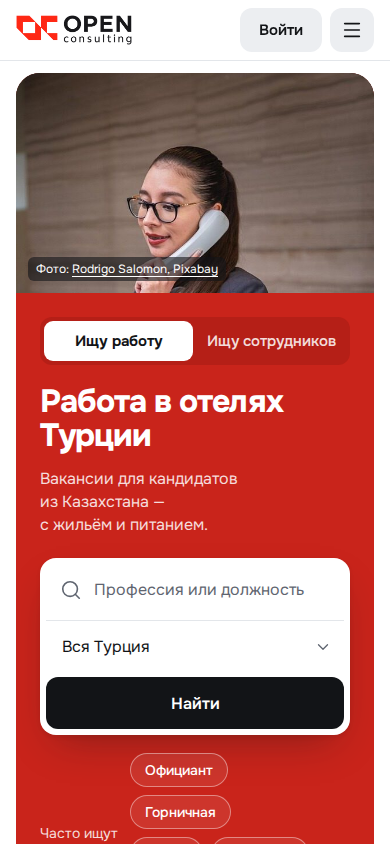
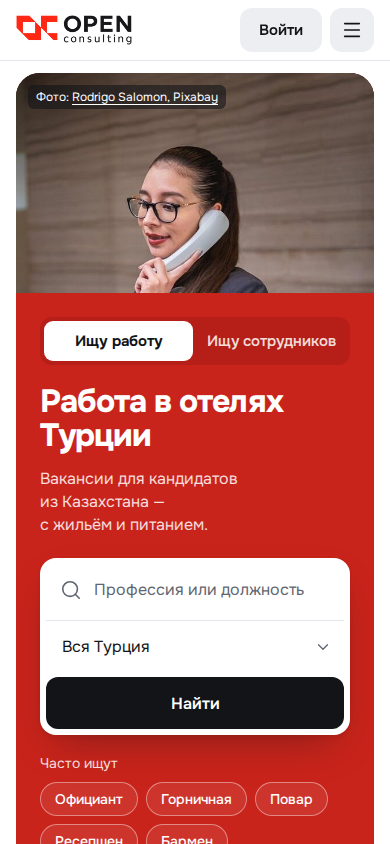
Homepage 3.0: second finish-review round (hero spacing, phone chips, crops, hotel mode)
Claude-Session: https://claude.ai/code/session_01AA1Z1WtEioX9EZSZ5Yz5ua

diff --git a/design/product-map/home/bundle/homepage-BToajWnn.css b/design/product-map/home/bundle/homepage-BToajWnn.css
@@ -1,0 +1,1 @@
+@font-face{font-family:Onest Variable;font-style:normal;font-display:swap;font-weight:100 900;src:url(/home/bundle/onest-cyrillic-ext-wght-normal-DOFToQv1.woff2)format("woff2-variations");unicode-range:U+460-52F,U+1C80-1C8A,U+20B4,U+2DE0-2DFF,U+A640-A69F,U+FE2E-FE2F}@font-face{font-family:Onest Variable;font-style:normal;font-display:swap;font-weight:100 900;src:url(/home/bundle/onest-cyrillic-wght-normal-DayYxulF.woff2)format("woff2-variations");unicode-range:U+301,U+400-45F,U+490-491,U+4B0-4B1,U+2116}@font-face{font-family:Onest Variable;font-style:normal;font-display:swap;font-weight:100 900;src:url(/home/bundle/onest-math-wght-normal-Bl4ZGkZl.woff2)format("woff2-variations");unicode-range:U+302-303,U+305,U+307-308,U+310,U+312,U+315,U+31A,U+326-327,U+32C,U+32F-330,U+332-333,U+338,U+33A,U+346,U+34D,U+391-3A1,U+3A3-3A9,U+3B1-3C9,U+3D1,U+3D5-3D6,U+3F0-3F1,U+3F4-3F5,U+2016-2017,U+2034-2038,U+203C,U+2040,U+2043,U+2047,U+2050,U+2057,U+205F,U+2070-2071,U+2074-208E,U+2090-209C,U+20D0-20DC,U+20E1,U+20E5-20EF,U+2100-2112,U+2114-2115,U+2117-2121,U+2123-214F,U+2190,U+2192,U+2194-21AE,U+21B0-21E5,U+21F1-21F2,U+21F4-2211,U+2213-2214,U+2216-22FF,U+2308-230B,U+2310,U+2319,U+231C-2321,U+2336-237A,U+237C,U+2395,U+239B-23B7,U+23D0,U+23DC-23E1,U+2474-2475,U+25AF,U+25B3,U+25B7,U+25BD,U+25C1,U+25CA,U+25CC,U+25FB,U+266D-266F,U+27C0-27FF,U+2900-2AFF,U+2B0E-2B11,U+2B30-2B4C,U+2BFE,U+3030,U+FF5B,U+FF5D,U+1D400-1D7FF,U+1EE??}@font-face{font-family:Onest Variable;font-style:normal;font-display:swap;font-weight:100 900;src:url(/home/bundle/onest-symbols-wght-normal-DxQzqQfC.woff2)format("woff2-variations");unicode-range:U+1-C,U+E-1F,U+7F-9F,U+20DD-20E0,U+20E2-20E4,U+2150-218F,U+2190,U+2192,U+2194-2199,U+21AF,U+21E6-21F0,U+21F3,U+2218-2219,U+2299,U+22C4-22C6,U+2300-243F,U+2440-244A,U+2460-24FF,U+25A0-27BF,U+28??,U+2921-2922,U+2981,U+29BF,U+29EB,U+2B??,U+4DC0-4DFF,U+FFF9-FFFB,U+10140-1018E,U+10190-1019C,U+101A0,U+101D0-101FD,U+102E0-102FB,U+10E60-10E7E,U+1D2C0-1D2D3,U+1D2E0-1D37F,U+1F0??,U+1F100-1F1AD,U+1F1E6-1F1FF,U+1F30D-1F30F,U+1F315,U+1F31C,U+1F31E,U+1F320-1F32C,U+1F336,U+1F378,U+1F37D,U+1F382,U+1F393-1F39F,U+1F3A7-1F3A8,U+1F3AC-1F3AF,U+1F3C2,U+1F3C4-1F3C6,U+1F3CA-1F3CE,U+1F3D4-1F3E0,U+1F3ED,U+1F3F1-1F3F3,U+1F3F5-1F3F7,U+1F408,U+1F415,U+1F41F,U+1F426,U+1F43F,U+1F441-1F442,U+1F444,U+1F446-1F449,U+1F44C-1F44E,U+1F453,U+1F46A,U+1F47D,U+1F4A3,U+1F4B0,U+1F4B3,U+1F4B9,U+1F4BB,U+1F4BF,U+1F4C8-1F4CB,U+1F4D6,U+1F4DA,U+1F4DF,U+1F4E3-1F4E6,U+1F4EA-1F4ED,U+1F4F7,U+1F4F9-1F4FB,U+1F4FD-1F4FE,U+1F503,U+1F507-1F50B,U+1F50D,U+1F512-1F513,U+1F53E-1F54A,U+1F54F-1F5FA,U+1F610,U+1F650-1F67F,U+1F687,U+1F68D,U+1F691,U+1F694,U+1F698,U+1F6AD,U+1F6B2,U+1F6B9-1F6BA,U+1F6BC,U+1F6C6-1F6CF,U+1F6D3-1F6D7,U+1F6E0-1F6EA,U+1F6F0-1F6F3,U+1F6F7-1F6FC,U+1F7??,U+1F800-1F80B,U+1F810-1F847,U+1F850-1F859,U+1F860-1F887,U+1F890-1F8AD,U+1F8B0-1F8BB,U+1F8C0-1F8C1,U+1F900-1F90B,U+1F93B,U+1F946,U+1F984,U+1F996,U+1F9E9,U+1FA00-1FA6F,U+1FA70-1FA7C,U+1FA80-1FA89,U+1FA8F-1FAC6,U+1FACE-1FADC,U+1FADF-1FAE9,U+1FAF0-1FAF8,U+1FB??}@font-face{font-family:Onest Variable;font-style:normal;font-display:swap;font-weight:100 900;src:url(/home/bundle/onest-vietnamese-wght-normal-BBxOatbv.woff2)format("woff2-variations");unicode-range:U+102-103,U+110-111,U+128-129,U+168-169,U+1A0-1A1,U+1AF-1B0,U+300-301,U+303-304,U+308-309,U+323,U+329,U+1EA0-1EF9,U+20AB}@font-face{font-family:Onest Variable;font-style:normal;font-display:swap;font-weight:100 900;src:url(/home/bundle/onest-latin-ext-wght-normal-QAhDxQuo.woff2)format("woff2-variations");unicode-range:U+100-2BA,U+2BD-2C5,U+2C7-2CC,U+2CE-2D7,U+2DD-2FF,U+304,U+308,U+329,U+1D00-1DBF,U+1E00-1E9F,U+1EF2-1EFF,U+2020,U+20A0-20AB,U+20AD-20C0,U+2113,U+2C60-2C7F,U+A720-A7FF}@font-face{font-family:Onest Variable;font-style:normal;font-display:swap;font-weight:100 900;src:url(/home/bundle/onest-latin-wght-normal-Dun_Rd-l.woff2)format("woff2-variations");unicode-range:U+??,U+131,U+152-153,U+2BB-2BC,U+2C6,U+2DA,U+2DC,U+304,U+308,U+329,U+2000-206F,U+20AC,U+2122,U+2191,U+2193,U+2212,U+2215,U+FEFF,U+FFFD}:root{--bg:#fff;--surface:#f4f5f7;--surface-2:#eceef1;--surface-3:#e2e5e9;--line:#e3e6ea;--line-strong:#c9ced5;--ink:#121417;--ink-2:#464c55;--ink-3:#5f6570;--red:#d42a20;--red-hover:#b3221a;--red-press:#9a1c15;--red-panel:#c9241b;--red-panel-2:#b51f17;--red-ink:#b3221a;--red-soft:#fdecea;--logo-red:#ec2a20;--green:#127a45;--green-soft:#e6f4ec;--amber-ink:#6b4a00;--amber-soft:#fff1cc;--on-red:#fff;--on-red-2:#ffffffdb;--font:"Onest Variable", "Segoe UI", Roboto, Arial, sans-serif;--fs-12:.75rem;--fs-13:.8125rem;--fs-14:.875rem;--fs-15:.9375rem;--fs-16:1rem;--fs-18:1.125rem;--fs-20:1.25rem;--fs-24:1.5rem;--fs-28:1.75rem;--fs-36:2.25rem;--fs-48:3rem;--r-8:8px;--r-12:12px;--r-16:16px;--r-24:24px;--shadow-card:0 1px 2px #1214170f, 0 8px 24px -12px #1214172e;--shadow-float:0 2px 4px #12141714, 0 18px 40px -16px #12141761;--shadow-pop:0 4px 12px #1214171a, 0 24px 56px -20px #12141759;--max:1280px;--gutter:clamp(16px, 3vw, 32px);--header-h:72px;--ease-out:cubic-bezier(.16, 1, .3, 1);--t-fast:.15s;--t-mid:.22s}@media (prefers-reduced-motion:reduce){:root{--t-fast:0s;--t-mid:0s}}*,:before,:after{box-sizing:border-box}html{-webkit-text-size-adjust:100%;-moz-text-size-adjust:100%;text-size-adjust:100%;scroll-padding-top:calc(var(--header-h) + 16px);scrollbar-color:var(--line-strong) transparent}@media (prefers-reduced-motion:no-preference){html{scroll-behavior:smooth}}body{background:var(--bg);min-width:320px;color:var(--ink);font-family:var(--font);font-size:var(--fs-16);font-synthesis:none;font-feature-settings:"kern";-webkit-font-smoothing:antialiased;text-rendering:optimizelegibility;caret-color:var(--red);margin:0;line-height:1.5}::selection{background:var(--red-soft);color:var(--ink)}img{max-width:100%;display:block}button,input,select,textarea{font:inherit;color:inherit}button{cursor:pointer}h1,h2,h3,h4,p,ul,ol,dl,dd,figure{margin:0}ul,ol{padding:0;list-style:none}a{color:inherit;text-underline-offset:3px;text-decoration-thickness:1px}:focus-visible{outline:2px solid var(--ink);outline-offset:2px;border-radius:4px}.num{font-variant-numeric:tabular-nums lining-nums}.wrap{width:100%;max-width:calc(var(--max) + var(--gutter) * 2);padding-inline:var(--gutter);margin-inline:auto}.visually-hidden{clip:rect(0 0 0 0);white-space:nowrap;border:0;width:1px;height:1px;margin:-1px;padding:0;overflow:hidden;position:absolute!important}.skip{z-index:100;border-radius:var(--r-8);background:var(--ink);color:#fff;padding:10px 14px;text-decoration:none;position:absolute;top:-80px;left:16px}.skip:focus{top:12px}.section{padding-block:56px}.section--tint{background:var(--surface)}.section__head{flex-wrap:wrap;justify-content:space-between;align-items:baseline;gap:8px 24px;margin-bottom:24px;display:flex}.h2{font-size:var(--fs-28);letter-spacing:-.02em;text-wrap:balance;font-weight:700;line-height:1.2}.h3{font-size:var(--fs-18);letter-spacing:-.01em;font-weight:650;line-height:1.3}.lead{color:var(--ink-2);font-size:var(--fs-16);max-width:62ch}.more-link{font-size:var(--fs-15);color:var(--red-ink);align-items:center;gap:4px;font-weight:600;text-decoration:none;display:inline-flex}.more-link:hover{text-decoration:underline}.btn{border-radius:var(--r-12);min-height:44px;font-size:var(--fs-15);white-space:nowrap;transition:background-color var(--t-fast) var(--ease-out), border-color var(--t-fast) var(--ease-out), color var(--t-fast) var(--ease-out), box-shadow var(--t-fast) var(--ease-out);border:1px solid #0000;justify-content:center;align-items:center;gap:8px;padding:0 18px;font-weight:600;line-height:1.2;text-decoration:none;display:inline-flex}.btn:disabled{opacity:.5;cursor:not-allowed}.btn--red{background:var(--red);color:var(--on-red)}.btn--red:hover{background:var(--red-hover)}.btn--red:active{background:var(--red-press)}.btn--ink{background:var(--ink);color:#fff}.btn--ink:hover{background:#2a2e34}.btn--soft{background:var(--surface-2);color:var(--ink)}.btn--soft:hover{background:var(--surface-3)}.btn--line{background:var(--bg);border-color:var(--line-strong);color:var(--ink)}.btn--line:hover{border-color:var(--ink)}.btn--lg{min-height:52px;font-size:var(--fs-16);padding:0 24px}.tag-demo{background:var(--amber-soft);height:22px;color:var(--amber-ink);font-size:var(--fs-12);white-space:nowrap;border-radius:6px;align-items:center;padding:0 8px;font-weight:600;display:inline-flex}.ns-overlay{z-index:80;animation:ns-fade var(--t-mid) var(--ease-out);background:#12141780;position:fixed;inset:0}.ns{z-index:81;border-radius:var(--r-24);background:var(--bg);width:min(30rem,100vw - 32px);max-height:calc(100svh - 32px);box-shadow:var(--shadow-pop);animation:ns-rise var(--t-mid) var(--ease-out);padding:28px;position:fixed;top:50%;left:50%;overflow:auto;translate:-50% -50%}.ns:focus{outline:none}.ns__head{justify-content:space-between;align-items:flex-start;gap:16px;display:flex}.ns__title{font-size:var(--fs-24);letter-spacing:-.02em;font-weight:700;line-height:1.2}.ns__close{background:var(--surface-2);width:40px;height:40px;color:var(--ink-2);border:0;border-radius:50%;flex-shrink:0;place-items:center;margin:-6px -8px 0 0;display:grid}.ns__close:hover{background:var(--surface-3);color:var(--ink)}.ns__steps{gap:10px;margin-top:20px;display:grid}.ns__steps li{font-size:var(--fs-15);grid-template-columns:28px 1fr;align-items:start;gap:10px;line-height:1.45;display:grid}.ns__steps span{background:var(--red-soft);width:28px;height:28px;color:var(--red-ink);font-size:var(--fs-13);border-radius:50%;place-items:center;font-weight:700;display:grid}.ns__text{color:var(--ink-3);font-size:var(--fs-14);margin-top:18px}.ns__ok{width:100%;margin-top:22px}@keyframes ns-fade{0%{opacity:0}}@keyframes ns-rise{0%{opacity:0;translate:-50% calc(12px - 50%)}}.topbar{background:var(--surface);border-bottom:1px solid var(--line);font-size:var(--fs-14)}.topbar__row{justify-content:space-between;align-items:center;min-height:40px;display:flex}.topbar__aud{gap:4px;margin-left:-10px;display:flex}.topbar__aud a,.topbar__aud button{min-height:40px;color:var(--ink-2);font-size:var(--fs-14);background:0 0;border:0;align-items:center;padding:0 10px;text-decoration:none;display:inline-flex}.topbar__aud a:hover,.topbar__aud button:hover{color:var(--ink)}.topbar__aud button[aria-pressed=true]{color:var(--ink);box-shadow:inset 0 -2px 0 var(--red);font-weight:650}.topbar__aside{color:var(--ink-2);align-items:center;gap:16px;display:flex}.topbar__aside a{color:var(--ink-2);text-decoration:none}.topbar__aside a:hover{color:var(--ink);text-decoration:underline}.topbar__lang{border-radius:var(--r-8);min-height:32px;color:var(--ink-2);font-size:var(--fs-14);background:0 0;border:0;align-items:center;gap:4px;padding:0 8px;font-weight:600;display:inline-flex}.topbar__lang:hover,.topbar__lang[data-state=open]{background:var(--surface-2);color:var(--ink)}.menu{z-index:70;border:1px solid var(--line);border-radius:var(--r-12);background:var(--bg);min-width:200px;box-shadow:var(--shadow-pop);font-family:var(--font);padding:6px}.menu__item{border-radius:var(--r-8);min-height:40px;font-size:var(--fs-15);cursor:pointer;outline:none;justify-content:space-between;align-items:center;gap:16px;padding:0 10px;display:flex}.menu__item[data-highlighted]{background:var(--surface)}.menu__soon{color:var(--ink-3);font-size:var(--fs-13)}.header{z-index:50;border-bottom:1px solid var(--line);background:#fffffff5;position:sticky;top:0}.header__row{min-height:var(--header-h);align-items:center;gap:28px;display:flex}.header__brand{border-radius:6px;flex-shrink:0;align-items:center;min-height:44px;display:flex}.header__logo{width:132px;height:auto}.header__nav ul{gap:2px;display:flex}.header__nav a{border-radius:var(--r-8);min-height:40px;color:var(--ink);font-size:var(--fs-15);white-space:nowrap;transition:background-color var(--t-fast) var(--ease-out);align-items:center;padding:0 12px;font-weight:500;text-decoration:none;display:inline-flex}.header__nav a:hover{background:var(--surface)}.header__search{opacity:0;visibility:hidden;max-width:360px;transition:opacity var(--t-mid) var(--ease-out), transform var(--t-mid) var(--ease-out), visibility 0s linear var(--t-mid);flex:1;align-items:center;display:flex;position:relative;transform:translateY(-4px)}.header__search.is-on{opacity:1;visibility:visible;transition:opacity var(--t-mid) var(--ease-out), transform var(--t-mid) var(--ease-out);transform:none}.header__search svg{color:var(--ink-3);pointer-events:none;position:absolute;left:12px}.header__search input{border:1px solid var(--line-strong);border-radius:var(--r-12);background:var(--bg);width:100%;min-height:40px;font-size:var(--fs-15);padding:0 12px 0 38px}.header__search input::placeholder{color:var(--ink-3)}.header__search input:focus-visible{outline:2px solid var(--ink);outline-offset:0;border-color:#0000}.header__actions{align-items:center;gap:8px;margin-left:auto;display:flex}.header__burger{border-radius:var(--r-12);background:var(--surface-2);border:0;place-items:center;width:44px;height:44px;display:none}.sheet{z-index:81;background:var(--bg);width:min(24rem,100vw);font-family:var(--font);animation:sheet-in var(--t-mid) var(--ease-out);padding:14px 20px 28px;position:fixed;inset:0 0 0 auto;overflow:auto}.sheet:focus{outline:none}.sheet__head{justify-content:space-between;align-items:center;min-height:48px;display:flex}.sheet__logo{width:120px;height:auto}.sheet__roles{border-radius:var(--r-12);background:var(--surface-2);grid-template-columns:1fr 1fr;gap:4px;margin-top:16px;padding:4px;display:grid}.sheet__roles button{min-height:40px;color:var(--ink-2);font-size:var(--fs-15);background:0 0;border:0;border-radius:9px;font-weight:550}.sheet__roles button[aria-pressed=true]{background:var(--bg);color:var(--ink);font-weight:650;box-shadow:0 1px 2px #1214171f}.sheet__nav{margin-top:12px}.sheet__nav a{border-bottom:1px solid var(--line);min-height:52px;font-size:var(--fs-18);align-items:center;font-weight:550;text-decoration:none;display:flex}.sheet__actions{gap:8px;margin-top:24px;display:grid}@keyframes sheet-in{0%{opacity:0;transform:translate(24px)}}@media (width<=1179px){.header__search{display:none}}@media (width<=1023px){.header__nav,.header__cta{display:none}.header__burger{display:grid}}@media (width<=767px){.topbar{display:none}.header__row{gap:12px;min-height:60px}.header__logo{width:116px}}.hero{padding-top:20px}.hero__panel{border-radius:var(--r-24);background:var(--red-panel);isolation:isolate;grid-template-columns:minmax(0,58fr) minmax(0,42fr);display:grid;position:relative;overflow:hidden}.hero__field{z-index:2;color:var(--on-red);flex-direction:column;padding:52px 0 36px 56px;display:flex;position:relative}.hero__field :focus-visible{outline-color:#fff}.hero__roles{display:none}.hero__title{max-width:13em;font-size:var(--fs-48);letter-spacing:-.03em;text-wrap:balance;font-weight:750;line-height:1.06}.hero__lead{max-width:34em;color:var(--on-red-2);font-size:var(--fs-18);text-wrap:pretty;margin-top:14px;padding-right:32px;line-height:1.45}.hero__search{background:var(--bg);color:var(--ink);box-shadow:var(--shadow-float);border-radius:16px;grid-template-columns:minmax(0,1fr) 190px auto;align-items:center;gap:4px;margin:32px -150px 0 0;padding:6px;display:grid}.hero__q{align-items:center;display:flex;position:relative}.hero__q svg{color:var(--ink-3);pointer-events:none;position:absolute;left:14px}.hero__q input{border-radius:var(--r-12);width:100%;min-height:56px;font-size:var(--fs-18);background:0 0;border:0;padding:0 12px 0 48px}.hero__q input::placeholder{color:var(--ink-3)}.hero__region{border-left:1px solid var(--line);align-items:center;height:40px;display:flex;position:relative}.hero__region select{border-radius:var(--r-12);width:100%;height:56px;font-size:var(--fs-16);appearance:none;cursor:pointer;background:0 0;border:0;padding:0 36px 0 16px}.hero__region svg{color:var(--ink-3);pointer-events:none;position:absolute;right:12px}.hero__q input:focus-visible,.hero__region select:focus-visible{outline:2px solid var(--ink);outline-offset:-2px}.hero__submit{min-height:56px;font-size:var(--fs-16);padding:0 30px}.hero__search .hero__submit:focus-visible{outline:2px solid var(--red);outline-offset:2px}.hero__quick{font-size:var(--fs-14);flex-wrap:wrap;align-items:center;gap:8px 12px;margin-top:18px;padding-right:40px;display:flex}.hero__quick>span{color:var(--on-red-2)}.hero__quick ul{flex-wrap:wrap;flex:1 1 0;gap:8px;min-width:0;display:flex}.hero__quick button{color:#fff;min-height:34px;font-size:var(--fs-14);transition:background-color var(--t-fast) var(--ease-out), border-color var(--t-fast) var(--ease-out);background:#ffffff14;border:1px solid #ffffff6b;border-radius:999px;padding:0 14px;font-weight:500}.hero__quick button:hover{background:#ffffff29;border-color:#fff}.hero__quick button[aria-pressed=true]{color:var(--red-ink);background:#fff;border-color:#fff;font-weight:650}.hero__facts{font-size:var(--fs-14);flex-wrap:wrap;gap:4px 20px;margin-top:28px;padding-top:0;font-weight:550;display:flex}.hero__facts a{color:#fff;align-items:center;gap:8px;min-height:32px;text-decoration:none;display:inline-flex}.hero__facts a:hover{text-decoration:underline}.hero__photo{z-index:1;background:#2b2723;margin:0;position:relative}.hero__photo img{object-fit:cover;object-position:42% 24%;width:100%;height:100%;position:absolute;inset:0}.hero__photo figcaption{color:#fff;font-size:var(--fs-12);background:#12141799;border-radius:6px;padding:3px 8px;position:absolute;bottom:12px;right:14px}.hero__photo a:focus-visible{outline-color:#fff}@media (width<=1179px){.hero__field{padding:44px 0 28px 40px}.hero__title{font-size:2.5rem}.hero__search{grid-template-columns:minmax(0,1fr) 160px auto;margin-right:-96px}}@media (width<=899px){.hero{padding-top:12px}.hero__panel{grid-template-columns:minmax(0,1fr);min-height:0}.hero__photo{order:-1;height:clamp(220px,44vw,320px)}.hero__photo img{object-position:46% 22%}.hero__field{padding:24px 24px 28px}.hero__search{margin-right:0}.hero__facts{margin-top:24px}}@media (width<=767px){.hero__roles{border-radius:var(--r-12);background:var(--red-panel-2);grid-template-columns:1fr 1fr;gap:4px;margin-bottom:20px;padding:4px;display:grid}.hero__roles button{min-height:40px;color:var(--on-red-2);font-size:var(--fs-15);background:0 0;border:0;border-radius:9px;font-weight:550}.hero__roles button[aria-pressed=true]{color:var(--ink);background:#fff;font-weight:650}.hero__title{font-size:2rem}.hero__lead{font-size:var(--fs-16)}.hero__search{grid-template-columns:minmax(0,1fr);margin-top:22px}.hero__region{border-left:0;border-top:1px solid var(--line);height:auto}.hero__region select{height:52px}.hero__q input{min-height:52px;font-size:var(--fs-16)}.hero__submit{min-height:52px}.hero__facts{flex-direction:column;gap:4px}.hero__quick{flex-direction:column;align-items:flex-start;padding-right:0}.hero__quick ul{flex:none;width:100%}}@media (width<=600px){.hero__photo img{object-position:46% 2%}.hero__photo figcaption{inset:12px auto auto 12px}}.vac{scroll-margin-top:calc(var(--header-h) + 8px)}.vac__tabs{margin-inline:calc(var(--gutter) * -1);padding:2px var(--gutter);scrollbar-width:none;gap:8px;display:flex;overflow-x:auto}.vac__tabs::-webkit-scrollbar{display:none}.vac__tabs button{border:1px solid var(--line-strong);background:var(--bg);min-height:40px;color:var(--ink);font-size:var(--fs-15);transition:background-color var(--t-fast) var(--ease-out), border-color var(--t-fast) var(--ease-out);border-radius:999px;flex-shrink:0;padding:0 16px;font-weight:500}.vac__tabs button:hover{border-color:var(--ink)}.vac__tabs button[aria-pressed=true]{border-color:var(--ink);background:var(--ink);color:#fff;font-weight:600}.vac__meta{min-height:36px;color:var(--ink-2);font-size:var(--fs-15);flex-wrap:wrap;align-items:center;gap:8px 12px;margin:16px 0;display:flex}.vac__reset{border-radius:var(--r-8);background:var(--surface-2);min-height:32px;color:var(--ink);font-size:var(--fs-14);border:0;align-items:center;gap:4px;padding:0 10px;font-weight:600;display:inline-flex}.vac__reset:hover{background:var(--surface-3)}.vac__grid{grid-template-columns:repeat(3,minmax(0,1fr));gap:16px;display:grid}.vac__grid>li{display:flex}.vcard{border:1px solid var(--line);border-radius:var(--r-16);background:var(--bg);transition:box-shadow var(--t-mid) var(--ease-out), border-color var(--t-mid) var(--ease-out);flex-direction:column;flex:1;padding:20px 20px 18px;display:flex}.vcard:hover{box-shadow:var(--shadow-card);border-color:#0000}.vcard__top{justify-content:space-between;align-items:center;gap:8px;display:flex}.vcard__date{color:var(--ink-3);font-size:var(--fs-13)}.vcard__title{margin-top:12px}.vcard__title button{color:var(--ink);font-size:var(--fs-18);letter-spacing:-.01em;text-align:left;background:0 0;border:0;padding:0;font-weight:650;line-height:1.3}.vcard__title button:hover{color:var(--red-ink);text-underline-offset:3px;text-decoration:underline}.vcard__salary{font-size:var(--fs-20);letter-spacing:-.01em;margin-top:8px;font-weight:700;line-height:1.25}.vcard__salary span{color:var(--ink-3);font-size:var(--fs-14);letter-spacing:0;font-weight:450}.vcard__kzt{color:var(--ink-2);font-size:var(--fs-14);margin-top:2px}.vcard__where{color:var(--ink-2);font-size:var(--fs-14);flex-wrap:wrap;gap:4px 14px;margin-top:12px;display:flex}.vcard__where span{align-items:center;gap:6px;display:inline-flex}.vcard__where svg{color:var(--ink-3)}.vcard__conds{flex-wrap:wrap;gap:6px;margin-top:14px;display:flex}.vcard__conds li{border-radius:var(--r-8);background:var(--surface);min-height:28px;color:var(--ink-2);font-size:var(--fs-13);align-items:center;gap:5px;padding:0 10px;display:inline-flex}.vcard__conds li svg{color:var(--ink-3)}.vcard__conds li.is-ok{background:var(--green-soft);color:var(--green);font-weight:550}.vcard__conds li.is-ok svg{color:var(--green)}.vcard__foot{color:var(--ink-3);font-size:var(--fs-13);flex-wrap:wrap;justify-content:space-between;align-items:center;gap:12px;margin-top:auto;padding-top:18px;display:flex}.vac__empty{border:1px dashed var(--line-strong);border-radius:var(--r-16);color:var(--ink-2);justify-items:start;gap:8px;padding:32px;display:grid}.vac__empty svg{color:var(--ink-3)}.vac__empty .h3{color:var(--ink)}.vac__empty div{flex-wrap:wrap;gap:8px;margin-top:8px;display:flex}.vac__more{justify-content:center;margin-top:24px;display:flex}.vac__note{max-width:72ch;color:var(--ink-3);font-size:var(--fs-13);margin-top:20px}@media (width<=1023px){.vac__grid{grid-template-columns:repeat(2,minmax(0,1fr))}}@media (width<=639px){.vac__grid{grid-template-columns:minmax(0,1fr);gap:12px}.vcard{padding:18px 16px 16px}.vcard__foot .btn{flex:1}}.browse{grid-template-columns:minmax(0,2fr) minmax(0,1fr);gap:40px 48px;display:grid}.browse .h2{margin-bottom:16px}.browse__prof{grid-template-columns:repeat(2,minmax(0,1fr));gap:8px;display:grid}.browse__reg{gap:8px;display:grid}.browse a{border-radius:var(--r-12);background:var(--bg);min-height:56px;color:var(--ink);transition:box-shadow var(--t-mid) var(--ease-out);grid-template-columns:minmax(0,1fr) auto auto;align-items:center;gap:12px;padding:0 14px 0 18px;text-decoration:none;display:grid}.browse a:hover{box-shadow:var(--shadow-card)}.browse a svg{color:var(--ink-3)}.browse__name{font-size:var(--fs-16);font-weight:600}.browse__sal,.browse__count{color:var(--ink-2);font-size:var(--fs-14)}.browse__note{color:var(--ink-3);font-size:var(--fs-13);margin-top:12px}.how{scroll-margin-top:calc(var(--header-h) + 8px)}.how__lead{margin-top:6px}.how__steps{counter-reset:step;grid-template-columns:repeat(5,minmax(0,1fr));gap:16px;display:grid}.how__steps li{padding-top:52px;position:relative}.how__steps li:before{content:"";background:var(--line);height:2px;position:absolute;top:17px;left:44px;right:-16px}.how__steps li:last-child:before{display:none}.how__num{background:var(--ink);color:#fff;width:36px;height:36px;font-size:var(--fs-15);border-radius:50%;place-items:center;font-weight:700;display:grid;position:absolute;top:0;left:0}.how__steps p{color:var(--ink-2);font-size:var(--fs-15);margin-top:6px;line-height:1.5}.how__cta-after{display:none}.how__bound{border-top:1px solid var(--line);color:var(--ink-3);font-size:var(--fs-14);margin-top:28px;padding-top:16px}.emp{border-radius:var(--r-24);background:var(--ink);color:#fff;grid-template-columns:minmax(0,5fr) minmax(0,6fr);gap:32px 56px;padding:48px;display:grid}.emp :focus-visible{outline-color:#fff}.emp__title{font-size:var(--fs-36);letter-spacing:-.025em;text-wrap:balance;font-weight:750;line-height:1.1}.emp__lead{color:#ffffffc7;font-size:var(--fs-16);max-width:44ch;margin-top:14px}.emp__actions{flex-wrap:wrap;gap:8px;margin-top:28px;display:flex}.emp__ghost{color:#fff;background:0 0;border-color:#ffffff4d}.emp__ghost:hover{border-color:#fff}.emp__points{grid-template-columns:repeat(2,minmax(0,1fr));align-content:center;gap:28px 32px;display:grid}.emp__points li{grid-template-columns:28px minmax(0,1fr);gap:8px;display:grid}.emp__points svg{color:#fff;margin-top:2px}.emp__points h3{font-size:var(--fs-16);font-weight:650}.emp__points p{color:#ffffffbd;font-size:var(--fs-14);margin-top:4px;line-height:1.5}.news{grid-template-columns:minmax(0,1fr) 280px;gap:16px;display:grid}.news__list{grid-template-columns:repeat(3,minmax(0,1fr));gap:16px;display:grid}.news__list>li{display:flex}.ncard{border-radius:var(--r-16);background:var(--bg);flex-direction:column;flex:1;align-items:flex-start;gap:10px;padding:20px;display:flex}.ncard__meta{color:var(--ink-3);font-size:var(--fs-13);flex-wrap:wrap;align-items:center;gap:6px 10px;display:flex}.ncard__rubric{background:var(--surface-2);color:var(--ink-2);border-radius:6px;padding:2px 8px;font-weight:600}.ncard__pin{align-items:center;gap:3px;display:inline-flex}.ncard__title button{color:var(--ink);font-size:var(--fs-18);text-align:left;background:0 0;border:0;padding:0;font-weight:650;line-height:1.3}.ncard__title button:hover{color:var(--red-ink);text-decoration:underline}.ncard__lead{color:var(--ink-2);font-size:var(--fs-14)}.ncard .tag-demo{margin-top:auto}.ad__label{color:var(--ink-3);font-size:var(--fs-12)}.ad__plate{border:1px solid var(--line);border-radius:var(--r-16);background:var(--bg);flex-direction:column;gap:16px;min-height:240px;margin-top:6px;padding:22px;display:flex}.ad__logo{width:116px;height:auto}.ad__plate p{font-size:var(--fs-18);font-weight:650;line-height:1.3}.ad__plate span{color:var(--ink-3);font-size:var(--fs-13);margin-top:auto}.faq{grid-template-columns:minmax(0,1fr) minmax(0,2fr);gap:24px 48px;display:grid}.faq__lead{margin-top:8px}.faq__list{border-top:1px solid var(--line)}.faq__item{border-bottom:1px solid var(--line)}.faq__q{width:100%;min-height:64px;color:var(--ink);font-size:var(--fs-18);text-align:left;background:0 0;border:0;justify-content:space-between;align-items:center;gap:16px;padding:12px 0;font-weight:600;display:flex}.faq__q svg{color:var(--ink-3);transition:rotate var(--t-mid) var(--ease-out);flex-shrink:0}.faq__q[data-state=open] svg{rotate:180deg}.faq__q:hover{color:var(--red-ink)}.faq__a p{max-width:64ch;color:var(--ink-2);padding-bottom:20px}.partners{scroll-margin-top:calc(var(--header-h) + 8px);padding-bottom:56px}.partners__row{border:1px solid var(--line);border-radius:var(--r-16);flex-wrap:wrap;justify-content:space-between;align-items:center;gap:16px 32px;padding:28px 32px;display:flex}.partners__row p{color:var(--ink-2);margin-top:4px}@media (width<=1023px){.browse,.faq{grid-template-columns:minmax(0,1fr)}.how__steps{grid-template-columns:minmax(0,1fr);gap:0}.how__steps li{padding:0 0 24px 56px}.how__steps li:before{width:2px;height:auto;inset:40px auto 4px 17px}.emp{grid-template-columns:minmax(0,1fr);padding:36px 32px}.news{grid-template-columns:minmax(0,1fr)}.ad__plate{min-height:160px}}@media (width<=767px){.section{padding-block:40px}.h2{font-size:var(--fs-24)}.browse__prof,.browse__reg{grid-template-columns:repeat(2,minmax(0,1fr))}.browse a{grid-template-columns:minmax(0,1fr);gap:2px;min-height:0;padding:12px 14px}.browse a svg{display:none}.browse__name{font-size:var(--fs-15)}.browse__sal,.browse__count{font-size:var(--fs-13)}.how__cta{display:none}.how__cta-after{width:100%;margin-top:8px;display:flex}.emp{border-radius:var(--r-16);padding:28px 20px}.emp__title{font-size:var(--fs-28)}.emp__points{grid-template-columns:minmax(0,1fr);gap:18px}.emp__actions .btn{width:100%}.news__list{grid-template-columns:minmax(0,1fr)}.faq__q{font-size:var(--fs-16)}.partners__row{padding:22px 20px}}.footer{background:var(--surface);border-top:1px solid var(--line);font-size:var(--fs-14);scroll-margin-top:calc(var(--header-h) + 8px);padding:48px 0 28px}.footer__grid{grid-template-columns:minmax(0,1.4fr) repeat(4,minmax(0,1fr));gap:32px;display:grid}.footer__logo{width:128px;height:auto}.footer__brand p{max-width:34ch;color:var(--ink-2);margin-top:14px}.footer h2{font-size:var(--fs-14);font-weight:650}.footer ul{color:var(--ink-2);gap:8px;margin-top:12px;display:grid}.footer ul a,.footer ul button{color:var(--ink-2);font-size:var(--fs-14);text-align:left;background:0 0;border:0;padding:0;text-decoration:none}.footer ul a:hover,.footer ul button:hover{color:var(--ink);text-decoration:underline}.footer__muted{color:var(--ink-3)}.footer__base:before{content:"";top:0;left:var(--gutter);right:var(--gutter);background:var(--line-strong);height:1px;position:absolute}.footer__base{color:var(--ink-3);font-size:var(--fs-13);flex-wrap:wrap;justify-content:space-between;gap:6px 24px;margin-top:36px;padding-top:18px;display:flex;position:relative}@media (width<=1023px){.footer__grid{grid-template-columns:repeat(2,minmax(0,1fr))}.footer__brand{grid-column:1/-1}}@media (width<=479px){.footer__grid{grid-template-columns:minmax(0,1fr)}}

diff --git a/design/visual-direction-src/src/site/components/hero.css b/design/visual-direction-src/src/site/components/hero.css
@@ -6,7 +6,6 @@
   position: relative;
   display: grid;
   grid-template-columns: minmax(0, 58fr) minmax(0, 42fr);
-  min-height: 460px;
   border-radius: var(--r-24);
   background: var(--red-panel);
   overflow: hidden;
@@ -184,8 +183,8 @@
   display: flex;
   flex-wrap: wrap;
   gap: 4px 20px;
-  margin-top: auto;
-  padding-top: 40px;
+  margin-top: 28px;
+  padding-top: 0;
   font-size: var(--fs-14);
   font-weight: 550;
 }
@@ -266,12 +265,7 @@
   }
 
   .hero__photo img {
-    object-position: 46% 2%;
-  }
-
-  .hero__photo figcaption {
-    right: auto;
-    left: 12px;
+    object-position: 46% 22%;
   }
 
   .hero__field {
@@ -283,7 +277,7 @@
   }
 
   .hero__facts {
-    padding-top: 24px;
+    margin-top: 24px;
   }
 }
 
@@ -348,6 +342,32 @@
 
   .hero__facts {
     flex-direction: column;
-    gap: 8px;
+    gap: 4px;
+  }
+
+  /* label above, chips across the full width */
+  .hero__quick {
+    flex-direction: column;
+    align-items: flex-start;
+    padding-right: 0;
+  }
+
+  .hero__quick ul {
+    flex: none;
+    width: 100%;
+  }
+}
+
+@media (max-width: 600px) {
+  .hero__photo img {
+    object-position: 46% 2%;
+  }
+
+  /* credit in the empty top-left corner, clear of the face and the phone */
+  .hero__photo figcaption {
+    top: 12px;
+    bottom: auto;
+    left: 12px;
+    right: auto;
   }
 }

diff --git a/design/product-map/home/index.html b/design/product-map/home/index.html
@@ -8,14 +8,14 @@
     <title>Open Consulting — работа в отелях Турции</title>
     <link rel="icon" type="image/png" href="/home/bundle/favicon-DVbobM14.png" />
     <link rel="apple-touch-icon" href="/home/bundle/apple-touch-icon-BV66gcEZ.png" />
-    <script type="module" crossorigin src="/home/bundle/homepage-Crm0J6qg.js"></script>
+    <script type="module" crossorigin src="/home/bundle/homepage-B5ulBxAY.js"></script>
     <link rel="modulepreload" crossorigin href="/home/bundle/search-wn5C5z2p.js">
     <link rel="modulepreload" crossorigin href="/home/bundle/dist-BEsy-9wl.js">
     <link rel="modulepreload" crossorigin href="/home/bundle/dist-CcJXCbun.js">
     <link rel="modulepreload" crossorigin href="/home/bundle/typography-C7SW3j9S.js">
     <link rel="modulepreload" crossorigin href="/home/bundle/pin-DbMgnvRh.js">
     <link rel="modulepreload" crossorigin href="/home/bundle/map-pin-nJRgT-Va.js">
-    <link rel="stylesheet" crossorigin href="/home/bundle/homepage-CX5JDaE7.css">
+    <link rel="stylesheet" crossorigin href="/home/bundle/homepage-BToajWnn.css">
   </head>
   <body>
     <div id="root"></div>
